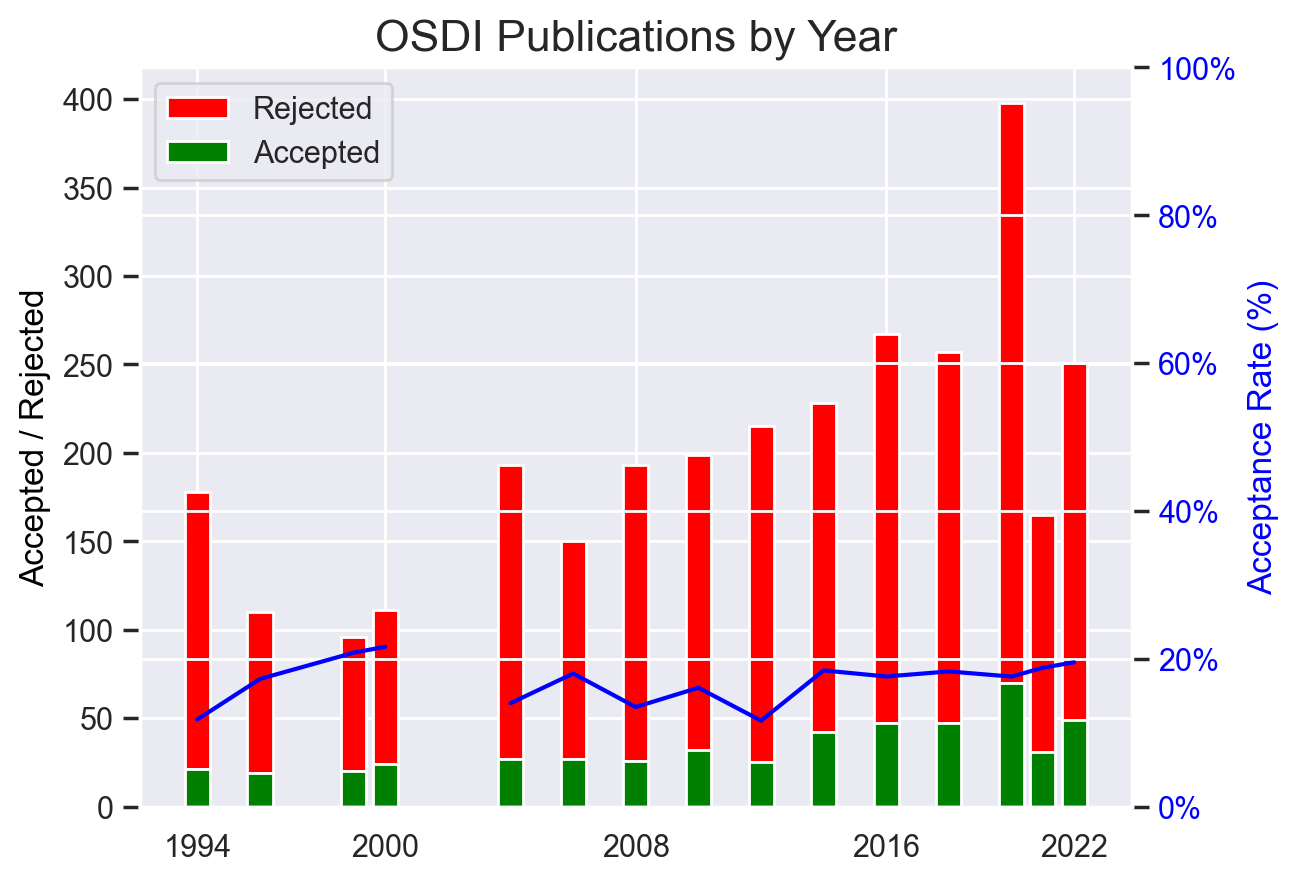
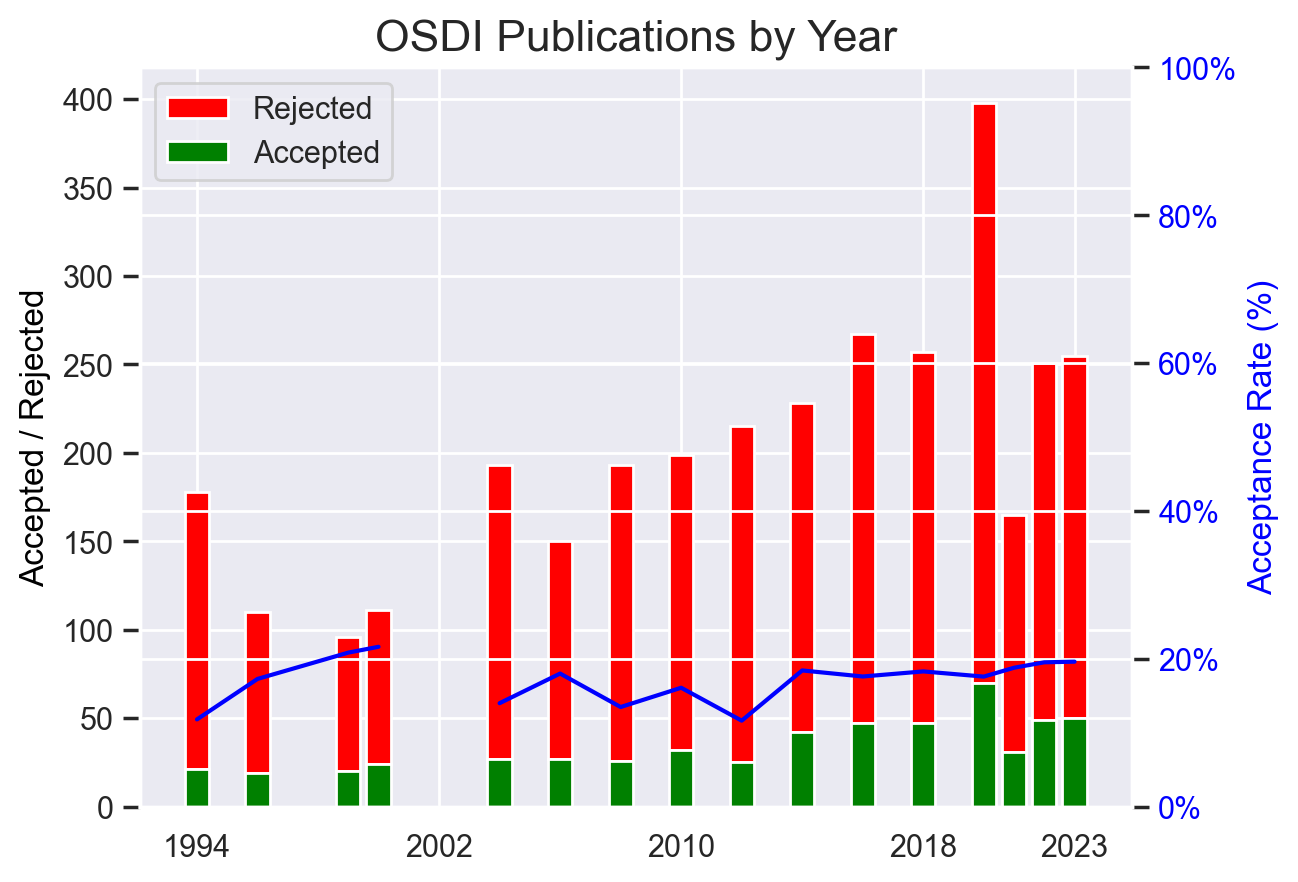
Added OSDI 2023.

diff --git a/README.md b/README.md
@@ -207,7 +207,7 @@
 <IMG SRC="https://github.com/emeryberger/csconferences/blob/main/graphs/FAST.png?raw=true" WIDTH="500">
 <A NAME="OSDI"></A>
 <P><B><A HREF="https://dblp.org/db/conf/osdi/index.html">OSDI</A></B>
- <em>mean acceptance rate, last 5 years: 18%</em></P>
+ <em>mean acceptance rate, last 5 years: 19%</em></P>
 <IMG SRC="https://github.com/emeryberger/csconferences/blob/main/graphs/OSDI.png?raw=true" WIDTH="500">
 <A NAME="SOSP"></A>
 <P><B><A HREF="https://dblp.org/db/conf/sosp/index.html">SOSP</A></B>
